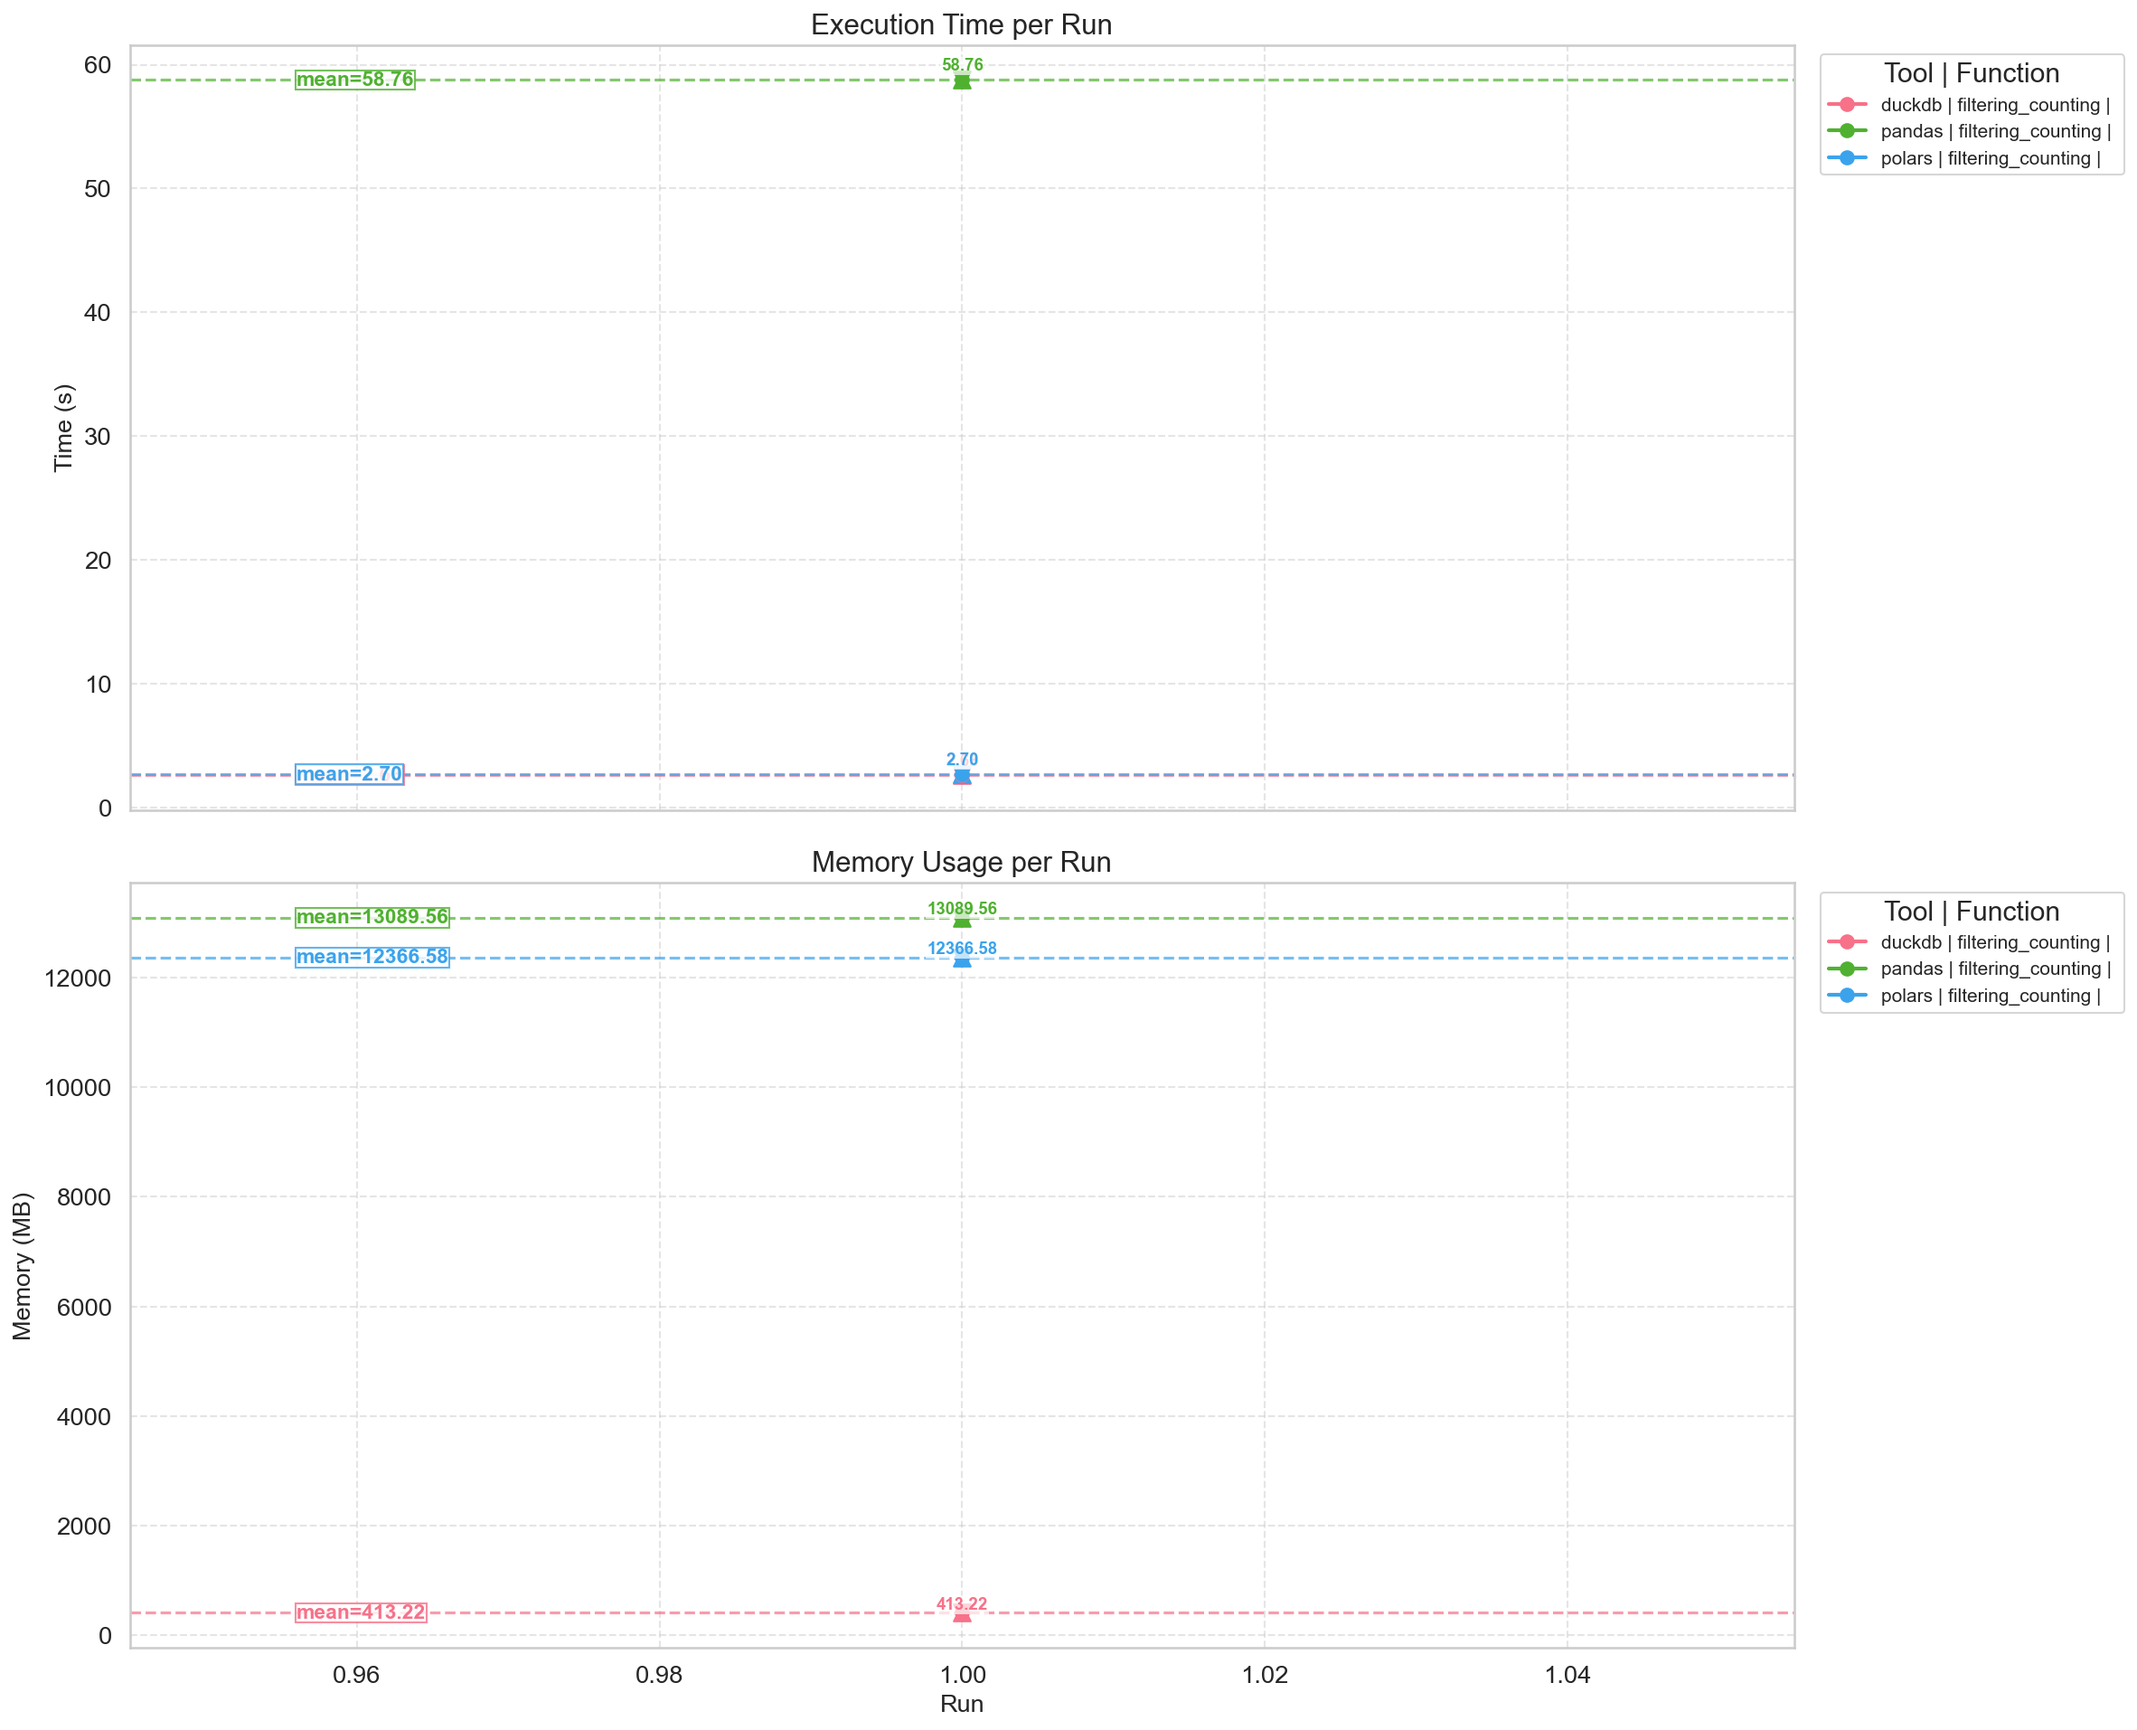
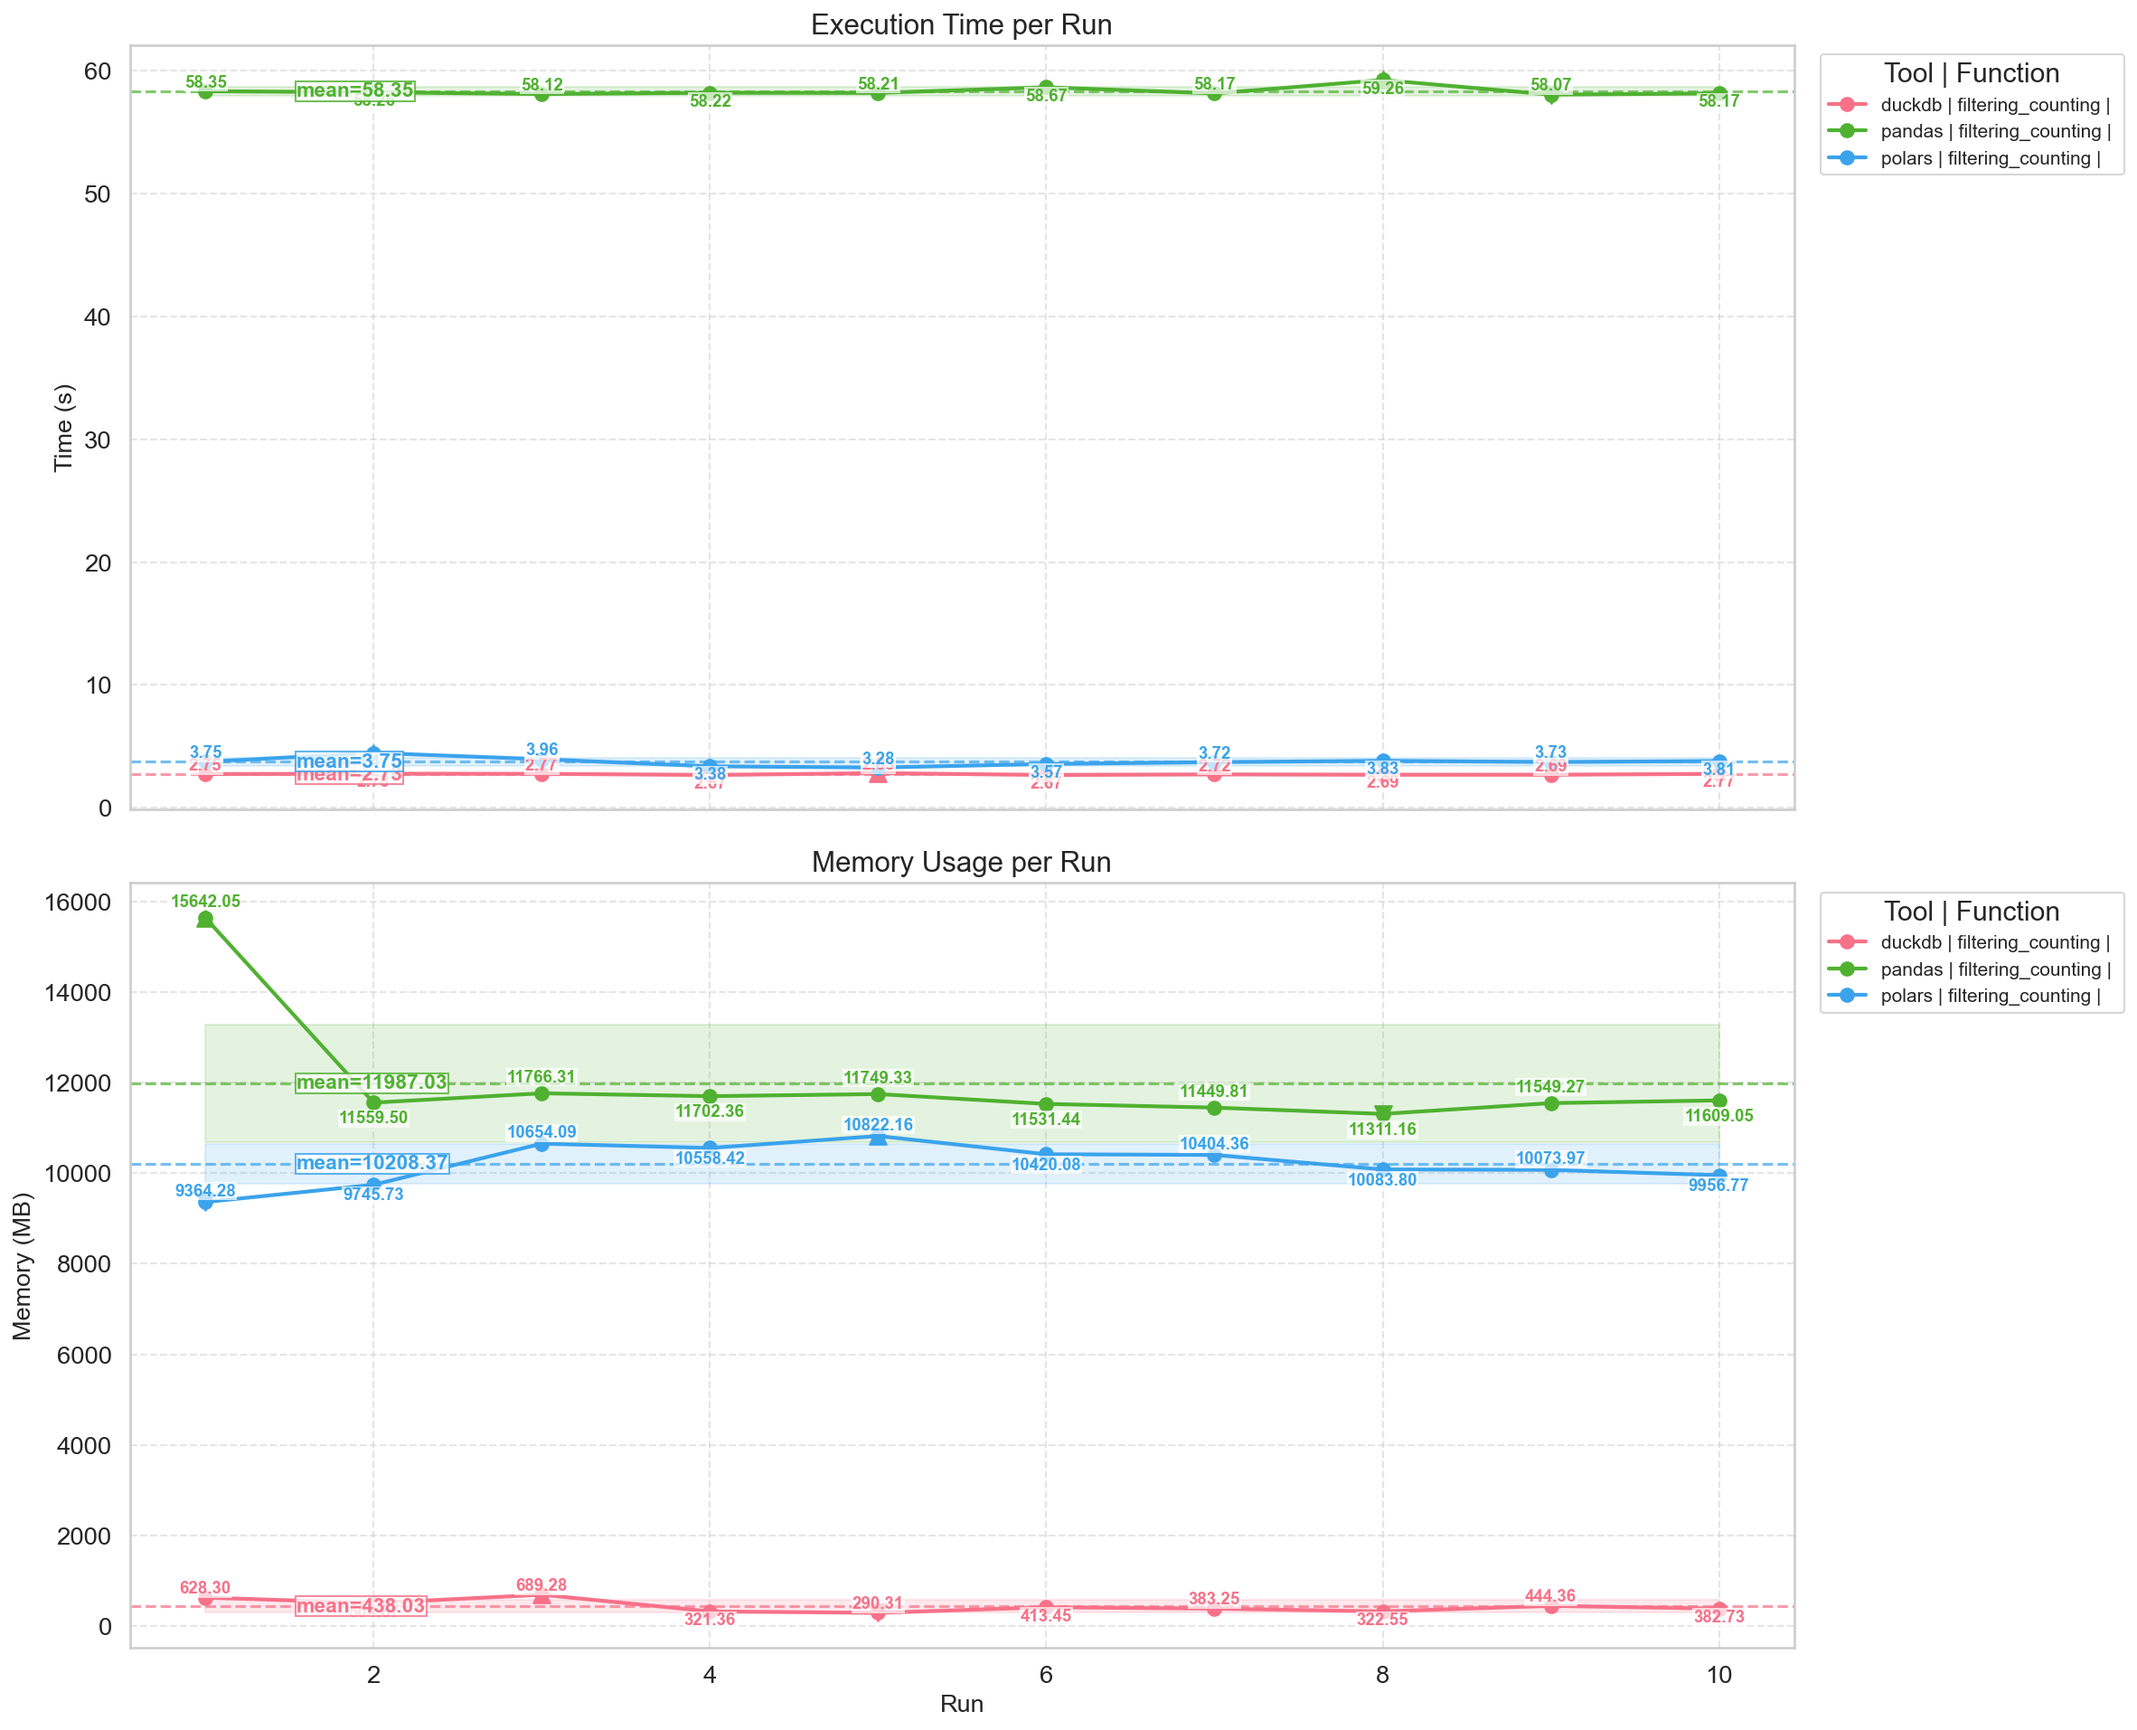
regenerated plots and bars

diff --git a/duckdb_polars_pandas/benchmark_engine.py b/duckdb_polars_pandas/benchmark_engine.py
@@ -3,10 +3,14 @@ from typing import Callable, List, Any
 import psutil
 import time
 import os
+
+from matplotlib import pyplot as plt
+
 import duckdb_olap
 import polars_olap
 import pandas_olap
 import utils
+from memory_profiler import memory_usage
 
 def get_memory_usage_mb() -> float:
     """Return current process memory usage in MB."""
@@ -22,23 +26,24 @@ def cold_benchmark(func: Callable[[], None]) -> None:
     end = time.perf_counter()
     print(f"Memory = {mem_after - mem_before:.2f} MB, Time = {end - start:.2f} s")
 
-def hot_benchmark(func: Callable[[], None], n_runs: int = 10) -> tuple[list[Any], list[Any]]:
+def hot_benchmark(func: Callable[[], None], n_runs: int = 10) -> None:
     """Run a hot benchmark for n_runs."""
     memories, times = [], []
     for i in range(n_runs):
-        print("------------------------------------------------")
-        print(f"Run {i+1}/{n_runs}")
+        print("\n------------------------------------------------\n")
+        print(f"\n*** Run {i+1}/{n_runs} ***\n")
         start = time.perf_counter()
         mem_before = get_memory_usage_mb()
         try:
-            with utils.suppress_stdout():
-                func()
+            func()
         except Exception as e:
             print(f"Error in run {i + 1}: {e}", flush=True)
             break
         mem_after = get_memory_usage_mb()
         end = time.perf_counter()
         print(f"Memory = {mem_after - mem_before:.2f} MB, Time = {end - start:.2f} s")
+        print(f"Memory Profiler for Run {i + 1}/{n_runs}")
+
 
 def main():
     parser = argparse.ArgumentParser(description="Run a benchmark on a selected tool and function.")

diff --git a/duckdb_polars_pandas/benchmark.py b/duckdb_polars_pandas/benchmark.py
@@ -66,16 +66,17 @@ def run_benchmark(
         if mode == "cold":
             # Run n times, each as a separate process
             for i in range(n_runs):
-                print("------------------------------------------------")
-                print(f"Run {i + 1}/{n_runs}")
+                print("\n------------------------------------------------\n")
+                print(f"\n*** Run {i + 1}/{n_runs} ***\n")
                 result = subprocess.check_output(args, stderr=subprocess.STDOUT)
                 run_output = result.decode().strip()
+                print(run_output)
+                print(f"Results for Run {i+ 1} / {n_runs}")
                 parsed = parse_output(run_output)
                 if parsed:
                     mem, t = parsed[0]
                     memories.append(mem)
                     times.append(t)
-                    print(f"Memory = {mem:.2f} MB, Time = {t:.2f} s")
                 else:
                     print("Warning: Could not parse output!")
         else:

diff --git a/duckdb_polars_pandas/duckdb_olap.py b/duckdb_polars_pandas/duckdb_olap.py
@@ -1,8 +1,10 @@
 import duckdb
 import utils
+from memory_profiler import profile
 
 dataset_path = f"{utils.get_dataset_dir()}/eCommerce.csv"
 
+@profile
 def filtering_counting():
     duckdb.sql(
         f"SELECT * FROM read_csv_auto('{dataset_path}') WHERE event_type = 'purchase'"
@@ -11,6 +13,7 @@ def filtering_counting():
         f"SELECT COUNT(*) AS purchase_count FROM read_csv_auto('{dataset_path}') WHERE event_type = 'purchase'"
     ).show()
 
+@profile
 def filtering_grouping_aggregation():
     duckdb.sql(
         f"""
@@ -21,6 +24,7 @@ def filtering_grouping_aggregation():
         """
     ).show()
 
+@profile
 def grouping_conditional_aggregation():
     duckdb.sql(
         f"""

diff --git a/duckdb_polars_pandas/polars_olap.py b/duckdb_polars_pandas/polars_olap.py
@@ -1,14 +1,17 @@
 import polars as pl
 import utils
+from memory_profiler import profile
 
 dataset_path = f"{utils.get_dataset_dir()}/eCommerce.csv"
 
+@profile
 def filtering_counting():
     df = pl.read_csv(dataset_path)
     purchases = df.filter(pl.col("event_type") == "purchase")
     print(purchases)
     print("Count:", purchases.height)
 
+@profile
 def filtering_grouping_aggregation():
     df = pl.read_csv(dataset_path)
     result = (
@@ -18,6 +21,7 @@ def filtering_grouping_aggregation():
     )
     print(result)
 
+@profile
 def grouping_conditional_aggregation():
     df = pl.read_csv(dataset_path)
     result = (

diff --git a/duckdb_polars_pandas/pandas_olap.py b/duckdb_polars_pandas/pandas_olap.py
@@ -1,14 +1,17 @@
 import pandas as pd
 import utils
+from memory_profiler import profile
 
 dataset_path = f"{utils.get_dataset_dir()}/eCommerce.csv"
 
+@profile
 def filtering_counting():
     df = pd.read_csv(dataset_path)
     purchases = df[df["event_type"] == "purchase"]
     print(purchases)
     print("Count:", len(purchases))
 
+@profile
 def filtering_grouping_aggregation():
     df = pd.read_csv(dataset_path)
     result = (
@@ -19,6 +22,7 @@ def filtering_grouping_aggregation():
     )
     print(result)
 
+@profile
 def grouping_conditional_aggregation():
     df = pd.read_csv(dataset_path)
     result = (
